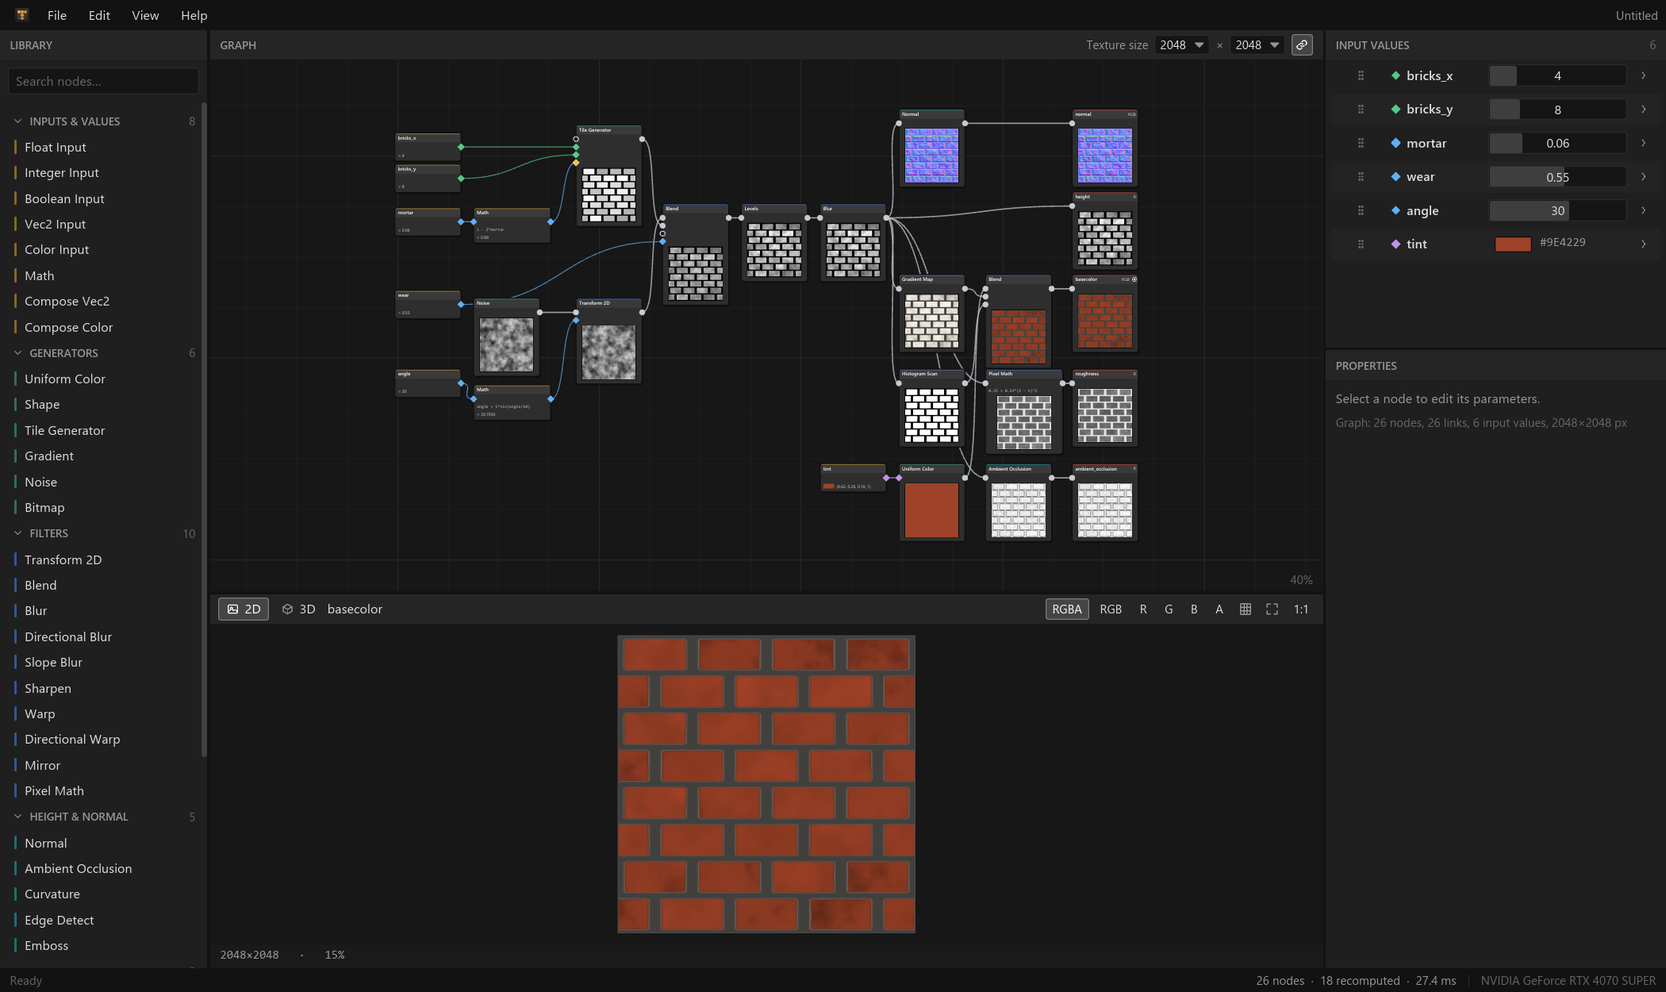
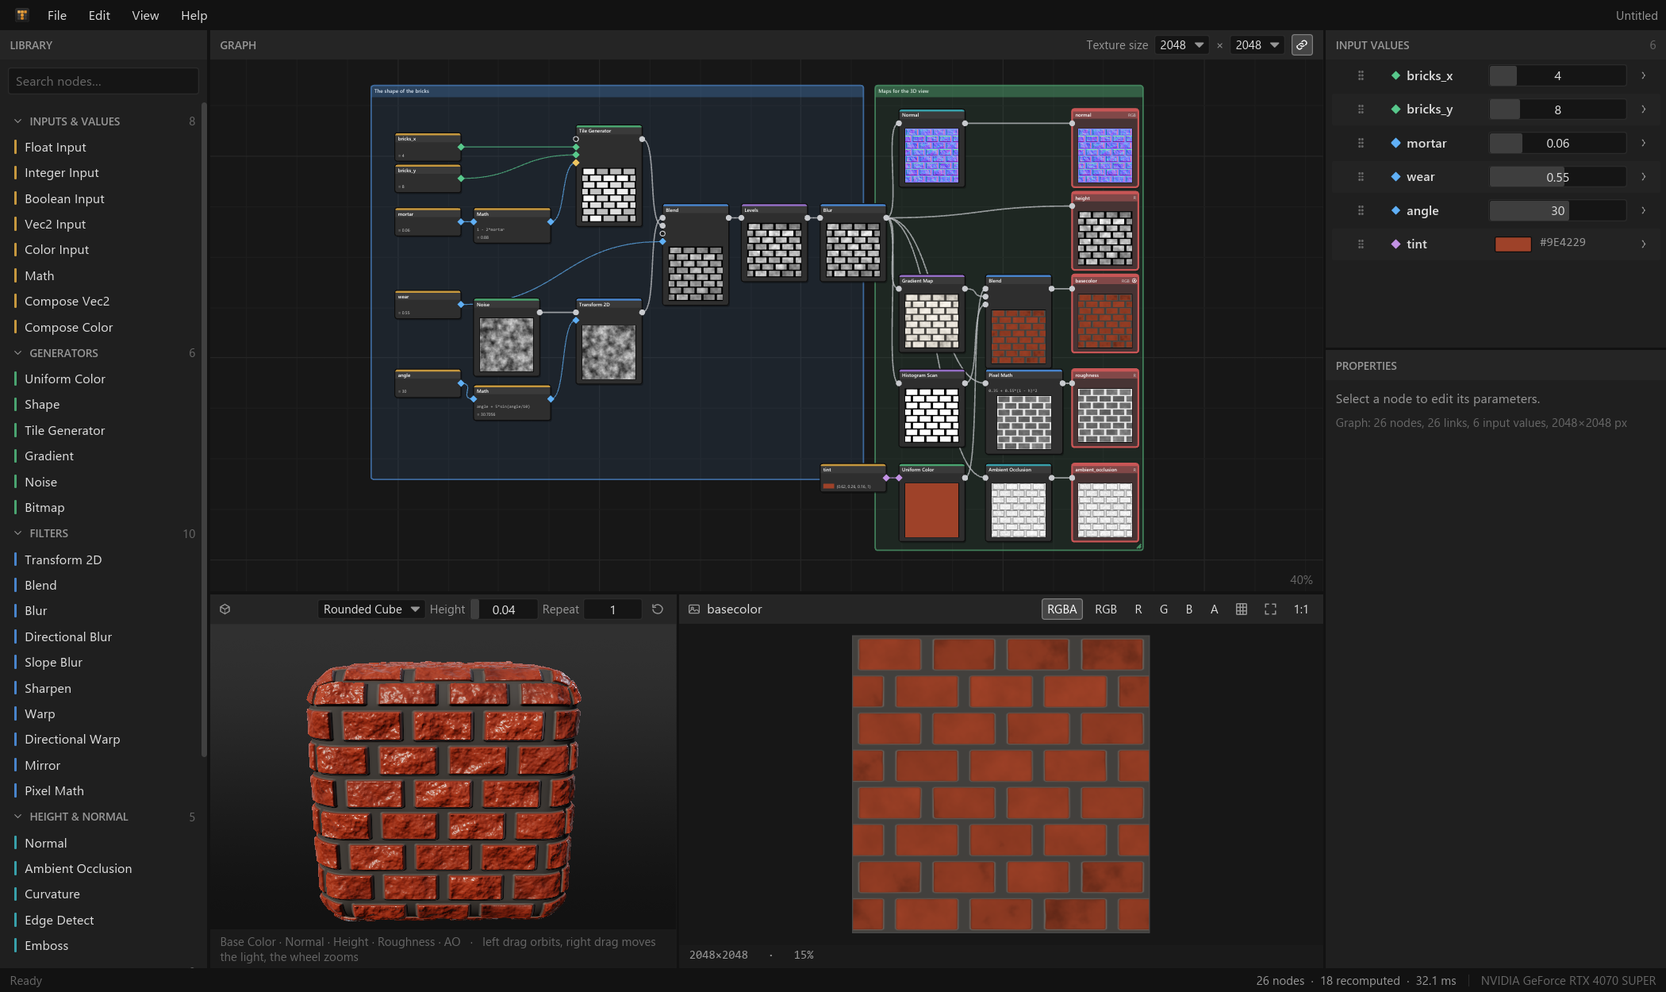
Say in the README what the two views, the comments and the drags now do

diff --git a/crates/tessera-core/src/demo.rs b/crates/tessera-core/src/demo.rs
@@ -203,6 +203,17 @@ pub fn brick_wall() -> (Graph, NodeId) {
     let out_ao = output(&mut g, [1200.0, 780.0], "ambient_occlusion", 3, crate::nodes::USAGE_AO);
     link(&mut g, ao, "o:output", out_ao, "i:input");
 
+    // Two comments, which say what the halves of the graph are for — and show what a
+    // comment is.
+    let shape = g.add_comment("The shape of the bricks".into(), [-580.0, -180.0], [1250.0, 1000.0]);
+    if let Some(c) = g.comment_mut(shape) {
+        c.color = 3;
+    }
+    let maps = g.add_comment("Maps for the 3D view".into(), [700.0, -180.0], [680.0, 1180.0]);
+    if let Some(c) = g.comment_mut(maps) {
+        c.color = 2;
+    }
+
     g.normalize();
     (g, out_color)
 }

diff --git a/README.md b/README.md
@@ -15,7 +15,7 @@ cargo run --release
 
 Нужен GPU с Vulkan, DX12 или Metal. В `.cargo/config.toml` включён `target-cpu=native`, чтобы SIMD-ядра собирались под AVX2 вашего процессора. Если бинарник нужно переносить на другие машины, эту строку стоит убрать.
 
-При старте открывается демо-граф «кирпичная стена»: шесть Input Values (`bricks_x`, `bricks_y`, `mortar`, `wear`, `angle`, `tint`), Tile Generator, шум под Transform 2D, Blend, Levels, Blur, Gradient Map, Histogram Scan, Normal, Ambient Occlusion, Pixel Math и пять Output с назначением (Base Color, Normal, Height, Roughness, AO). Их сразу видно на 3D-модели.
+При старте открывается демо-граф «кирпичная стена»: шесть Input Values (`bricks_x`, `bricks_y`, `mortar`, `wear`, `angle`, `tint`), Tile Generator, шум под Transform 2D, Blend, Levels, Blur, Gradient Map, Histogram Scan, Normal, Ambient Occlusion, Pixel Math и пять Output с назначением (Base Color, Normal, Height, Roughness, AO). Их сразу видно на 3D-модели. Две рамки-комментария показывают, где в графе форма кирпичей, а где карты для 3D.
 
 ## Интерфейс
 
@@ -24,9 +24,9 @@ cargo run --release
 ───────────┬─────────────────────────────────────────────┬────────────────────────────
 библиотека │ граф       размер текстуры (по умолч. 2048²) │ Input Values
 нод        │                                             ├────────────────────────────
-           ├─────────────────────────────────────────────┤ свойства выделенной ноды
-           │ 2D / 3D                                     │
-───────────┴─────────────────────────────────────────────┴────────────────────────────
+           ├──────────────────────┬──────────────────────┤ свойства выделенной ноды
+           │ 3D: модель           │ 2D: изображение      │
+───────────┴──────────────────────┴──────────────────────┴────────────────────────────
 строка состояния: последнее сообщение              ноды · пересчитано · время · GPU
 ```
 
@@ -37,20 +37,35 @@ cargo run --release
 - перетаскивание из сокета соединяет; если отпустить на пустом месте, откроется поиск, и новая нода сразу подключится (в списке остаются только подходящие ноды);
 - перетаскивание подключённого входа переносит связь (один шаг undo) или, если отпустить на пустом месте, удаляет её; если отпустить на неподходящем сокете, связь остаётся где была;
 - сокеты типизированы: круг — изображение, ромб — значение (цвет по типу: Float, Integer, Boolean, Vec2, Color). Несовместимые соединения и циклы отклоняются с сообщением; числа конвертируются между собой, скаляр растягивается в Vec2 или Color;
-- Space или двойной клик по пустому месту: поиск ноды (↑↓, Enter); Del: удалить; Ctrl+C/X/V, Ctrl+D, Ctrl+A; F: показать всё или выделенное; Ctrl+B: bypass;
+- Space или двойной клик по пустому месту: поиск ноды (↑↓, Enter); Del: удалить; Ctrl+C/X/V, Ctrl+D, Ctrl+A; F: показать всё или выделенное; Ctrl+B: bypass; C: обвести выделенное комментарием;
+- у ноды сверху полоса цвета её категории, у Output-нод весь заголовок в их цвете: конец графа виден сразу. Имя, которое вы дали ноде (Label), пишется над ней, а в заголовке остаётся, что это за нода;
+- **комментарии** — рамка вокруг группы нод, как в Unreal или Substance Designer: C создаёт её вокруг выделенного, за заголовок она двигается вместе с нодами внутри, за правый нижний угол меняет размер, двойной клик по заголовку ставит курсор в её текст, а ПКМ даёт восемь цветов и удаление;
 - Ctrl+Z / Ctrl+Y: undo/redo (перетаскивание слайдера или набор текста — один шаг); Ctrl+S, Ctrl+O, Ctrl+N; Ctrl+E: экспорт всех Output; F1: все клавиши;
+- сочетания привязаны к клавишам, а не к буквам, которые те печатают: Ctrl+Z работает и на русской раскладке (клавиша «я»), и на греческой, и на любой другой — на всех трёх системах. На раскладках, которые двигают латиницу (AZERTY, QWERTZ), сочетание остаётся на клавише с нужной буквой;
 - файл, брошенный на окно: `.tessera` открывается, картинка становится нодой Bitmap.
 
 ### 2D и 3D
-- **2D**: каналы RGBA/RGB/R/G/B/A, повтор 3×3 по тайлингу ноды, пипетка значений пикселя, 1:1 и Fit. У Transform 2D есть гизмо: центр двигает, кольцо вращает, ручки масштабируют; с Shift — шаг 15° и сохранение пропорций. Exposed-параметры гизмо не меняет.
-- **3D**: сфера, куб, плоскость или цилиндр с PBR-освещением. Карты берутся из Output по их Usage (Base Color, Normal, Height, Roughness, Metallic, AO, Emissive), Height смещает вершины. ЛКМ вращает камеру, ПКМ — свет, колесо — зум.
 
-![3D](docs/3d.png)
+Оба вида видны сразу, как в Substance Designer: слева модель, справа изображение. Границу между ними можно двигать.
+
+- **2D**: каналы RGBA/RGB/R/G/B/A, пипетка значений пикселя, 1:1 и Fit. У Transform 2D есть гизмо: центр двигает, кольцо вращает, ручки масштабируют; с Shift — шаг 15° и сохранение пропорций. Exposed-параметры гизмо не меняет.
+- **Тайлинг** (кнопка с сеткой): изображение повторяется бесконечно по всему виду, все копии одинаковые. Повтор идёт по тому, как нода читает вход: у Transform 2D — вдоль осей гизмо, поэтому при повороте и уменьшении копии сходятся. Если целого повторения в изображении нет (например, поворот без уменьшения), вид показывает правду — само изображение встык с собой. Красная рамка отмечает ту копию, которая и есть текстура, и видна, только когда курсор на ней.
+- **3D**: скруглённый куб (по умолчанию), сфера, куб, плоскость или цилиндр с PBR-освещением. Карты берутся из Output по их Usage (Base Color, Normal, Height, Roughness, Metallic, AO, Emissive), Height смещает вершины. ЛКМ вращает камеру, ПКМ — свет, колесо — зум.
+
+![2D и 3D](docs/views.png)
 
 ### Параметры и expose
 У каждого параметра справа есть ромб expose. Exposed-параметр получает сокет на ноде и сразу блокируется: вместо редактора показывается значение, пришедшее в сокет (с именем ноды-источника, клик по нему выделяет её), или предупреждение, что сокет не подключён. Параметр, скрытый условием (например, Corner Radius, пока у Shape выбрана не Rounded Square), сокета не имеет; связь при этом сохраняется и вернётся, когда параметр снова станет видимым. Тайлинг не экспонируется.
 
 Числовые поля: перетаскивание меняет значение (Shift — точнее, Ctrl — с шагом), клик — ввод с клавиатуры, можно писать выражения вроде `2*pi`.
+
+Тянуть можно сколько угодно: указатель на время перетаскивания возвращается туда, где всё началось, и край экрана драгу не мешает (на Wayland, где программе двигать указатель нельзя, композитор держит его на месте и сообщает, насколько уехала мышь). Отпустили — указатель там же, откуда вы начали.
+
+У большинства ползунков за границами шкалы значения не кончаются: необычные числа дают интересные текстуры. Лимиты есть только там, где за ними нет смысла — гамма, доли и вероятности, количества плиток, число сторон, радиусы (не меньше нуля).
+
+Параметр, у которого значение не такое, каким нода пришла, подписан ярче и жирным; **клик средней кнопкой по строке** возвращает исходное. То же и в Input Values: строка с изменённым значением выделена, средняя кнопка возвращает значение по умолчанию.
+
+Цвет открывается плавающей палитрой у самого поля — она ничего не сдвигает в панели; клик мимо неё закрывает.
 
 ### Input Values
 Работают как параметры материала в Unreal. Переменная графа появляется вместе с нодой Input (Float, Integer, Boolean, Vec2, Color) и определяется своим именем: несколько нод Input с одним именем читают одну переменную, а когда удалена последняя такая нода, переменная исчезает. У каждой переменной в панели есть значение, описание, значение по умолчанию, min/max, «Reset to default» и «Set as default». Строку можно перетащить на граф: появится ещё одна нода Input.
@@ -133,14 +148,16 @@ PipeWire подгружается только там, где без него н
 ## Проверка
 
 ```bash
-cargo test --workspace                                            # 118 тестов
-cargo test --workspace -- --ignored                               # живые тесты пипетки (нужен рабочий стол)
+cargo test --workspace                                            # 122 теста
+cargo test --workspace -- --ignored                               # живые тесты пипетки и захвата указателя (нужен рабочий стол)
 cargo run --release -- --bench                                    # замеры GPU и SIMD
 cargo run --release -- --contact-sheet sheet.png                  # все ядра на одной картинке
 cargo run --release -- --screenshot ui.png --scenario gradient    # снимок интерфейса (список сценариев: --help)
 ```
 
 Тесты покрывают модель, GPU-ядра (по значениям пикселей) и интерфейс. UI-тесты строят настоящие панели без окна и подают им события мыши и клавиатуры: например, проверяют, что редактор Math не теряет фокус, пока выражение становится то ошибочным, то верным, что ноду можно перетащить из библиотеки на граф, что связь переносится одним шагом, и что пипетка по нарисованному «экрану» даёт нужный цвет и градиент. С `TESSERA_UI_SNAPSHOTS=<папка>` они сохраняют отрисованные состояния окна в PNG.
+
+Перетаскивание значения без края экрана проверяется там же, где это единственный способ: тест в своём Sway создаёт окно, просит композитор захватить указатель над ним и толкает мышь на сорок экранов вперёд, а потом столько же назад — счёт сходится. На остальных системах указатель возвращают на место, и тесты его не двигают вовсе: они подставляют свой.
 
 Пипетка проверяется по-настоящему, на каждой системе, и настоящую мышь при этом не трогает:
 - **Windows** — тест показывает своё окно с эталонным градиентом и ведёт по нему «мышь» сообщениями в окна самой пипетки; проверяется, что цвета взяты из картинки, а нарисованная линия в них не попала (в том числе в режиме, где окна пипетки видны в захвате экрана, как на старых версиях Windows). Отдельный тест рисует курсор-лупу в картинку и смотрит, что прозрачность понята верно;
